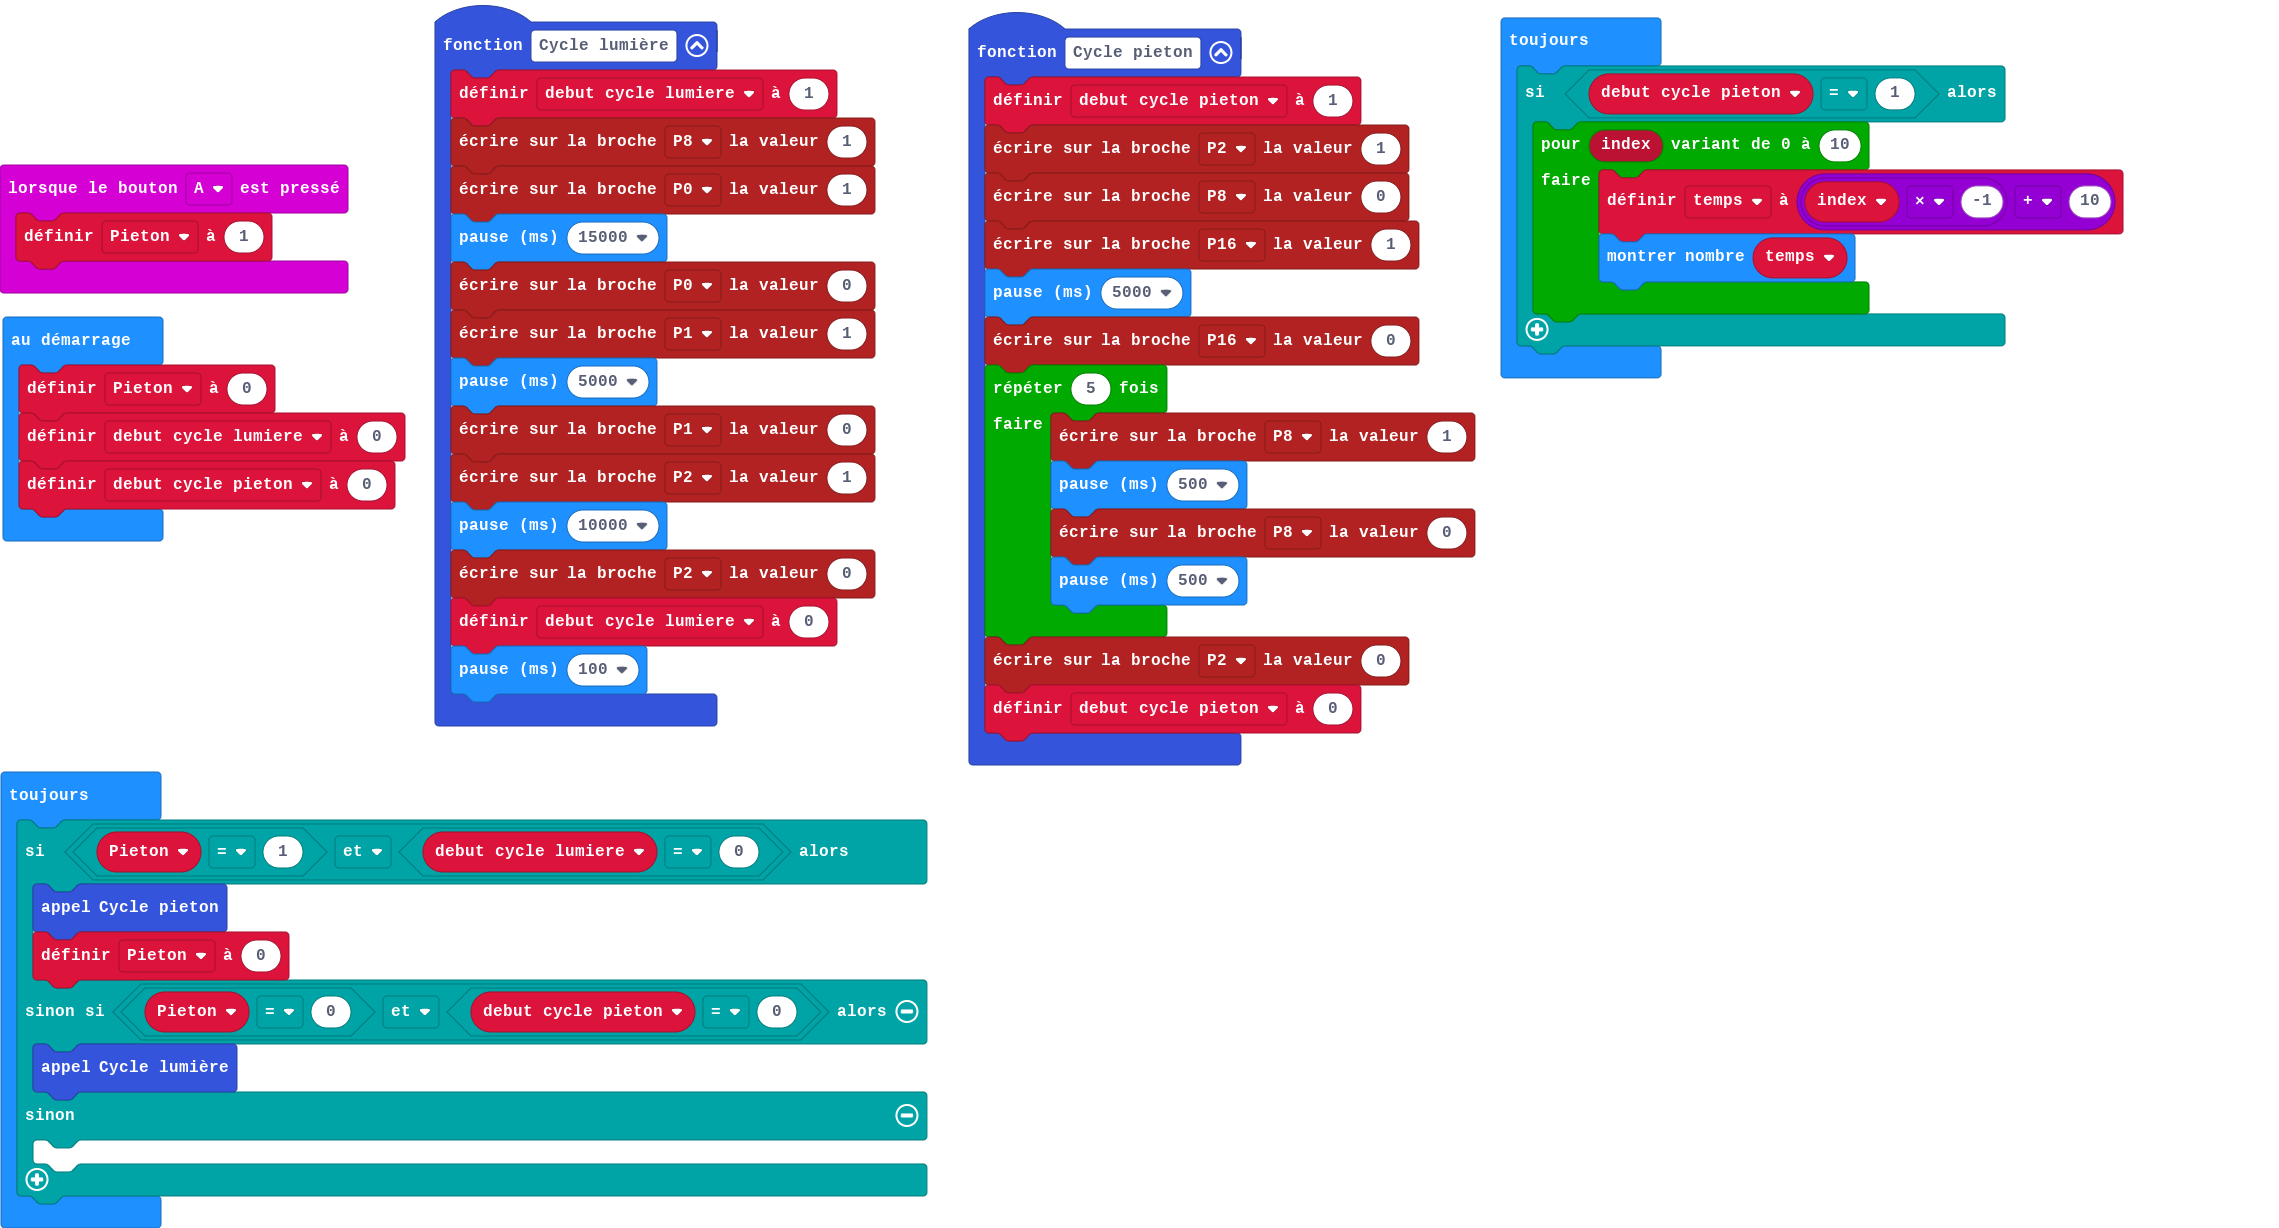
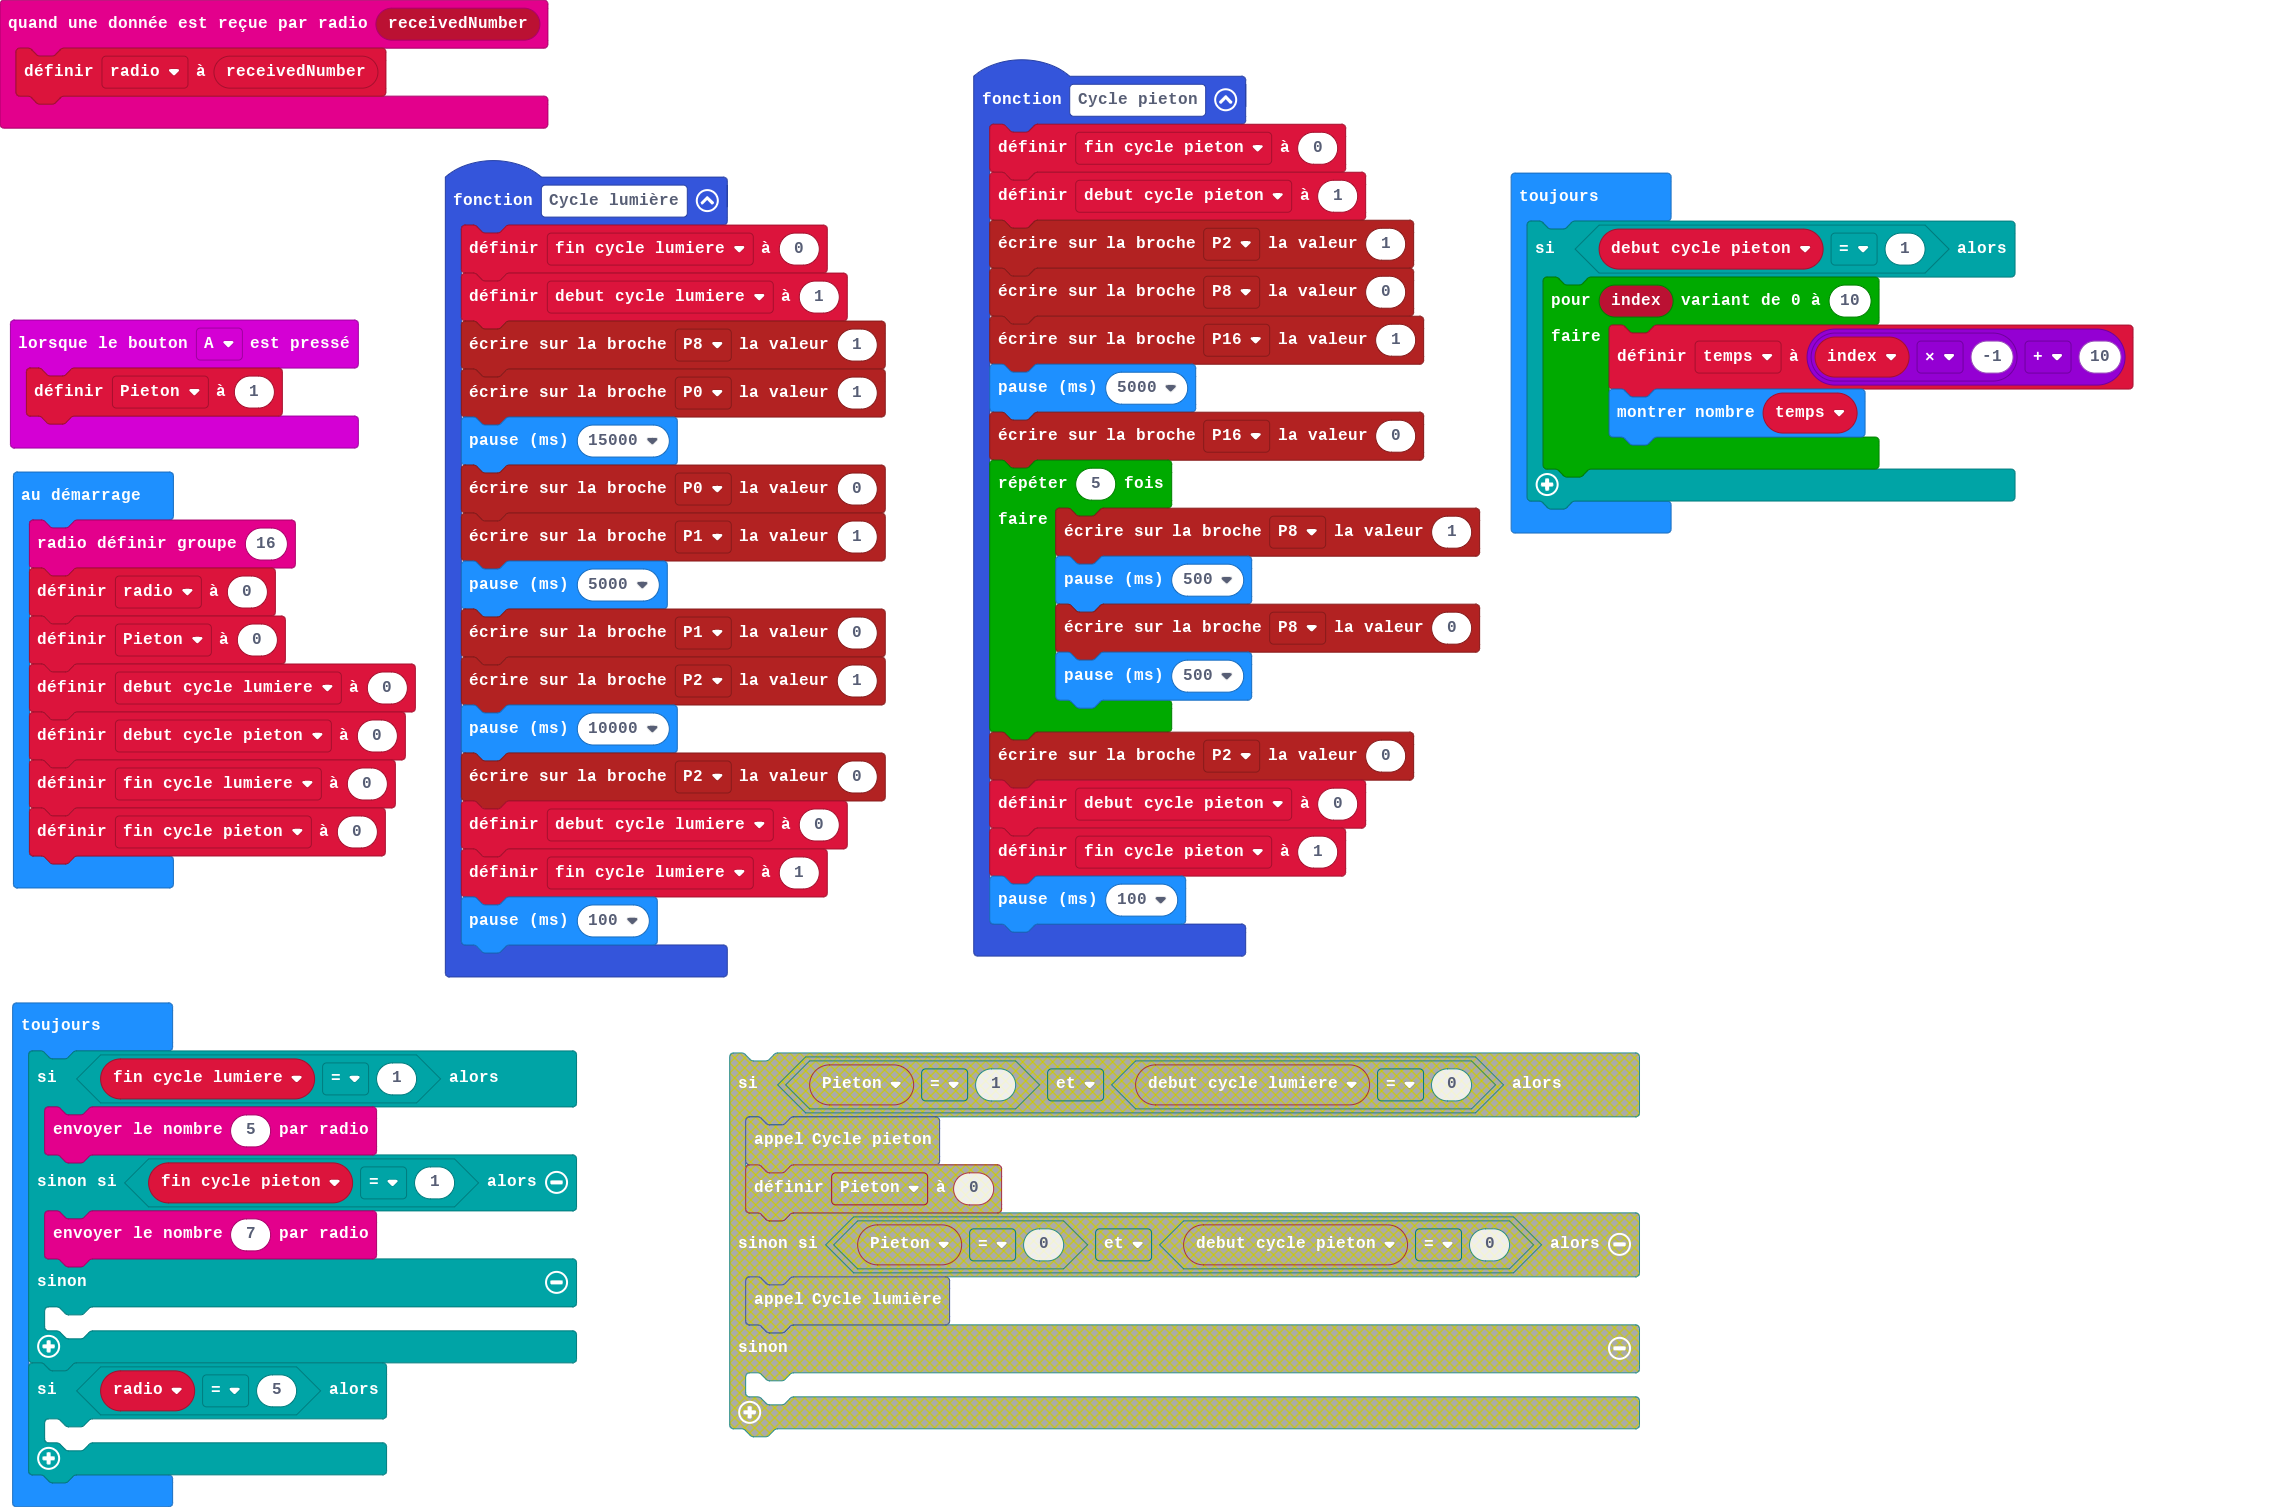
Mise à jour pxt.json, main.blocks, main.ts

diff --git a/main.ts b/main.ts
@@ -1,4 +1,8 @@
+radio.onReceivedNumber(function (receivedNumber) {
+    radio2 = receivedNumber
+})
 function Cycle_pieton () {
+    fin_cycle_pieton = 0
     debut_cycle_pieton = 1
     pins.digitalWritePin(DigitalPin.P2, 1)
     pins.digitalWritePin(DigitalPin.P8, 0)
@@ -13,11 +17,14 @@ function Cycle_pieton () {
     }
     pins.digitalWritePin(DigitalPin.P2, 0)
     debut_cycle_pieton = 0
+    fin_cycle_pieton = 1
+    basic.pause(100)
 }
 input.onButtonPressed(Button.A, function () {
     Pieton = 1
 })
 function Cycle_lumière () {
+    fin_cycle_lumiere = 0
     debut_cycle_lumiere = 1
     pins.digitalWritePin(DigitalPin.P8, 1)
     pins.digitalWritePin(DigitalPin.P0, 1)
@@ -30,15 +37,23 @@ function Cycle_lumière () {
     basic.pause(10000)
     pins.digitalWritePin(DigitalPin.P2, 0)
     debut_cycle_lumiere = 0
+    fin_cycle_lumiere = 1
     basic.pause(100)
 }
 let temps = 0
+let fin_cycle_pieton = 0
+let fin_cycle_lumiere = 0
 let debut_cycle_pieton = 0
 let debut_cycle_lumiere = 0
 let Pieton = 0
+let radio2 = 0
+radio.setGroup(16)
+radio2 = 0
 Pieton = 0
 debut_cycle_lumiere = 0
 debut_cycle_pieton = 0
+fin_cycle_lumiere = 0
+fin_cycle_pieton = 0
 basic.forever(function () {
     if (debut_cycle_pieton == 1) {
         for (let index = 0; index <= 10; index++) {
@@ -48,12 +63,14 @@ basic.forever(function () {
     }
 })
 basic.forever(function () {
-    if (Pieton == 1 && debut_cycle_lumiere == 0) {
-        Cycle_pieton()
-        Pieton = 0
-    } else if (Pieton == 0 && debut_cycle_pieton == 0) {
-        Cycle_lumière()
+    if (fin_cycle_lumiere == 1) {
+        radio.sendNumber(5)
+    } else if (fin_cycle_pieton == 1) {
+        radio.sendNumber(7)
     } else {
+    	
+    }
+    if (radio2 == 5) {
     	
     }
 })
